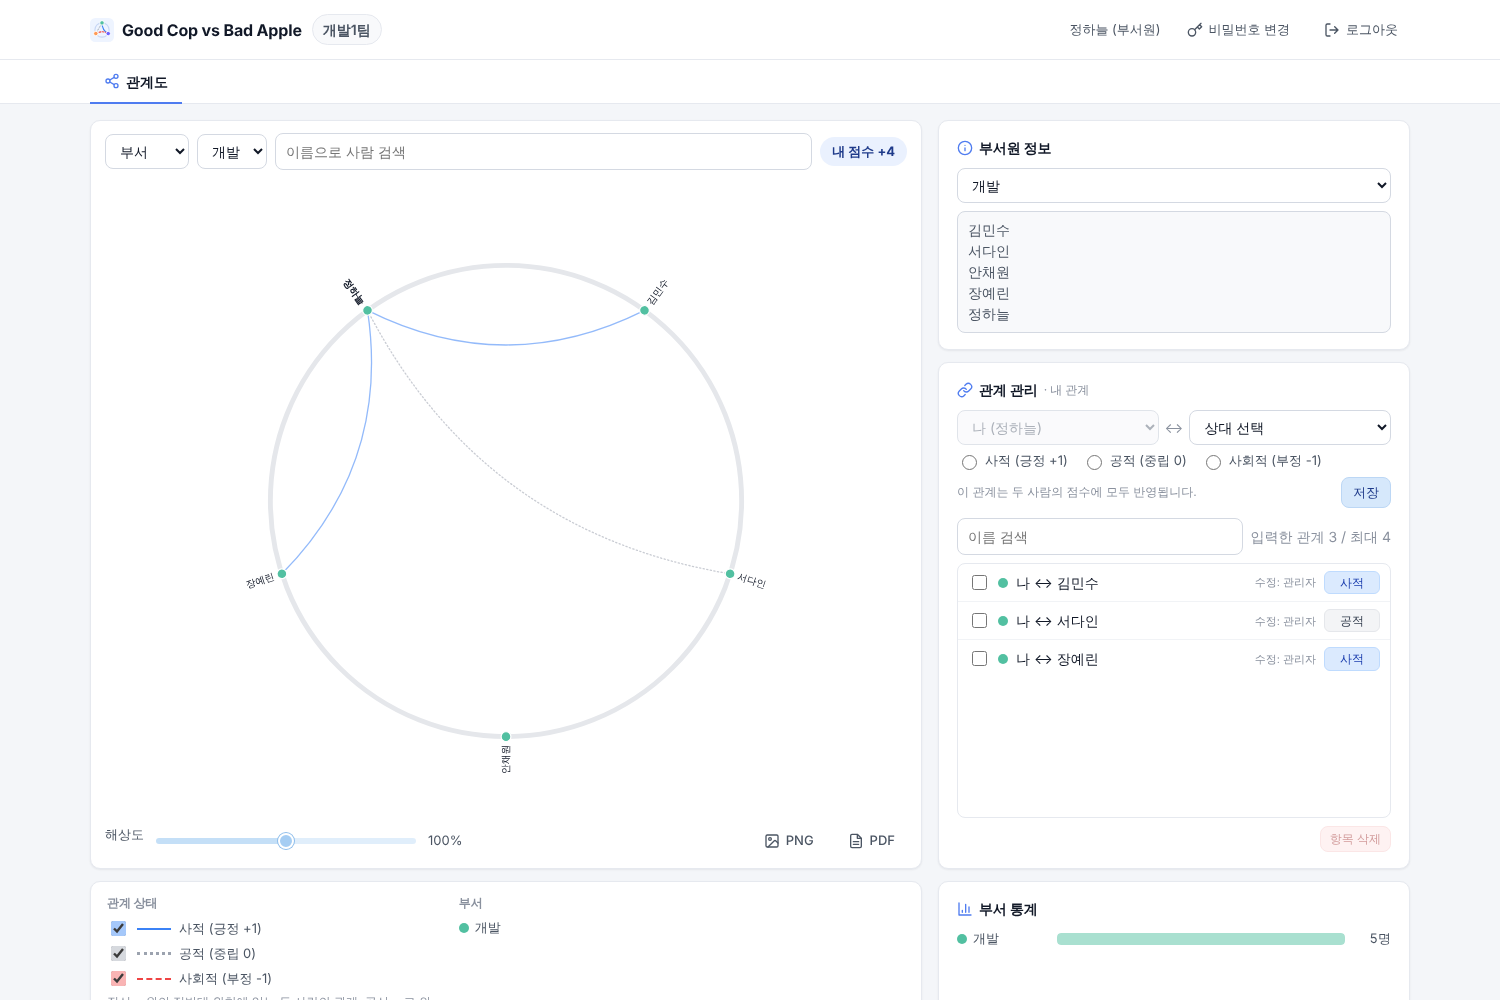
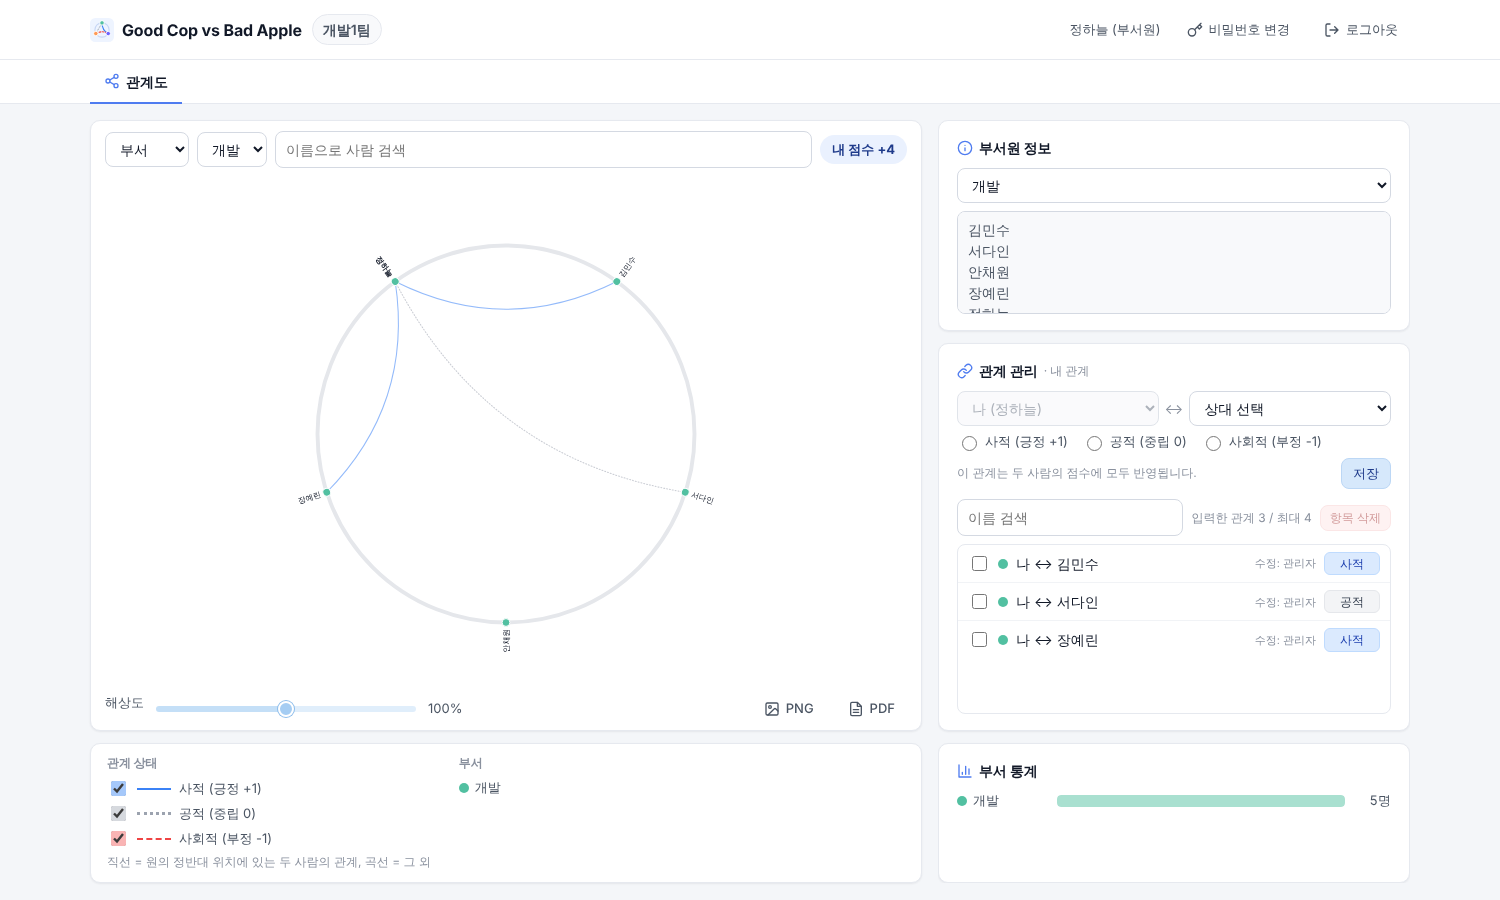
Fit the diagram view in one screen and remove the legend card's empty space
- Diagram area height follows the viewport (100vh minus header, toolbar and
  legend) instead of a fixed 65vh, so the page no longer scrolls
- Relationship status (legend) card sizes to its content; the department
  stats card matches its height via JS so both rows still line up
- Right column: member info and relationship management share the space
  with minimum heights, compact ranking card, delete button moved into the
  list toolbar; the column scrolls instead of overlapping on short screens

Claude-Session: https://claude.ai/code/session_01DsfKjRFUmAajqSco24Yp3e

diff --git a/public/style.css b/public/style.css
@@ -165,12 +165,13 @@ button:focus-visible, .select-list li:focus-visible, .tab:focus-visible, .subtab
 .chart-column { flex: 0 0 auto; width: 832px; max-width: 100%; display: flex; flex-direction: column; gap: 12px; }
 .side-column { flex: 1 1 320px; min-width: 280px; display: flex; flex-direction: column; gap: 12px; }
 
-.chart-card { padding: 12px 14px; }
+.chart-card { padding: 10px 14px 6px; }
 .chart-toolbar { display: flex; gap: 8px; align-items: center; margin-bottom: 6px; }
 .chart-toolbar input { flex: 1; min-width: 120px; }
 .chart-toolbar select { max-width: 200px; }
 .my-score { font-weight: 650; white-space: nowrap; padding: 5px 12px; border-radius: 999px; background: var(--accent-soft); color: var(--primary-text); font-size: 13px; }
-.chart-scroll { width: 100%; max-width: 800px; height: 65vh; overflow: hidden; position: relative; margin: 0 auto; }
+/* 화면 한 장에 들어가도록: 전체 높이 - (헤더·탭·여백·도구줄·슬라이더·관계 상태 카드 ≈ 380px) */
+.chart-scroll { width: 100%; max-width: 800px; height: clamp(380px, calc(100vh - 380px), 800px); overflow: hidden; position: relative; margin: 0 auto; }
 .chart-scroll.scrollable { overflow: auto; }
 .chart-scroll svg { display: block; margin: 0 auto; }
 .chart-empty { position: absolute; inset: 0; display: flex; align-items: center; justify-content: center; color: var(--muted); text-align: center; padding: 20px; }
@@ -184,7 +185,8 @@ button:focus-visible, .select-list li:focus-visible, .tab:focus-visible, .subtab
 #zoom-slider::-moz-range-track { height: 6px; border-radius: 999px; background: #E0EEFB; }
 #zoom-slider::-moz-range-progress { height: 6px; border-radius: 999px; background: #C4DFF7; }
 
-.legend-card { height: calc(23vh - 30px); min-height: 110px; overflow: auto; display: flex; gap: 28px; padding: 12px 16px; }
+.legend-card { display: flex; gap: 28px; padding: 10px 16px; }
+.legend-card .hint { margin: 4px 0 0; }
 .legend-section { min-width: 0; }
 .legend-section h3 { font-size: 12px; color: var(--muted); font-weight: 600; margin-bottom: 6px; }
 .legend-status { display: flex; flex-direction: column; gap: 4px; }
@@ -235,18 +237,24 @@ button:focus-visible, .select-list li:focus-visible, .tab:focus-visible, .subtab
 #panel-my-relations { display: flex; flex-direction: column; max-height: 60vh; }
 
 /* 좌우 배치일 때 오른쪽 열 높이를 왼쪽 열(관계 상태 카드 아래)에 맞춤 — 남는 높이는 유동 카드가 흡수 */
-.side-column.aligned { min-height: 0; }
+.side-column.aligned { min-height: 0; overflow-y: auto; }
 .side-column.aligned > .card { flex: 0 0 auto; }
-.side-column.aligned.admin > .panel-info,
-.side-column.aligned.member > #panel-my-relations { flex: 1 1 0; min-height: 0; height: auto; max-height: none; }
-/* 부서 통계는 왼쪽 관계 상태 카드(.legend-card)와 같은 높이 */
-.side-column.aligned > .panel-stats { height: calc(23vh - 30px); min-height: 110px; }
+.side-column.aligned.admin > .panel-info { flex: 1 1 0; min-height: 0; height: auto; max-height: none; }
+/* 부서원 화면: 부서원 정보와 관계 관리가 남는 높이를 1:2로 나눔 (관계 관리는 최소 높이 보장) */
+.side-column.aligned.member > .panel-info { flex: 1 1 0; min-height: 140px; height: auto; overflow: hidden; }
+.side-column.aligned.member > #panel-my-relations { flex: 2 1 0; min-height: 290px; height: auto; max-height: none; }
+.side-column.aligned .panel-info textarea { min-height: 36px; }
+/* 부서 통계는 왼쪽 관계 상태 카드(.legend-card)와 같은 높이 (JS에서 실제 높이를 맞춤) */
+.side-column.aligned > .panel-stats { min-height: 0; }
 .rel-form label { margin-bottom: 6px; }
 .status-radios { border: 0; padding: 0; margin: 6px 0; display: flex; gap: 14px; flex-wrap: nowrap; }
 .status-radios label { flex-direction: row; align-items: center; gap: 5px; margin: 0; white-space: nowrap; font-size: 13px; cursor: pointer; font-weight: 400; }
 .list-toolbar { display: flex; align-items: center; gap: 8px; margin: 10px 0 8px; flex-wrap: wrap; }
 .list-toolbar h3 { margin: 0; flex: 1; }
-.list-toolbar input[type="search"] { flex: 1; min-width: 140px; }
+.list-toolbar input[type="search"] { flex: 1; min-width: 120px; }
+#panel-my-relations .list-toolbar { flex-wrap: nowrap; }
+#panel-my-relations .list-toolbar #my-rel-count { font-size: 12px; white-space: nowrap; }
+#panel-my-relations .select-list { margin-bottom: 0; }
 
 .select-list { list-style: none; margin: 0 0 8px; padding: 0; overflow: auto; flex: 1; min-height: 60px; border: 1px solid var(--border); border-radius: var(--radius-sm); }
 .select-list li { display: flex; align-items: center; gap: 8px; padding: 7px 10px; border-bottom: 1px solid #f1f3f6; cursor: pointer; }
@@ -274,8 +282,10 @@ button:focus-visible, .select-list li:focus-visible, .tab:focus-visible, .subtab
 .scope-note { font-size: 12px; font-weight: 400; color: var(--muted); }
 
 .ranking { display: grid; grid-template-columns: 1fr 1fr; gap: 14px; }
-.ranking h4 { margin: 0 0 8px; font-size: 12px; color: var(--muted); font-weight: 600; }
-.rank-list { list-style: none; padding: 0; margin: 0; display: flex; flex-direction: column; gap: 7px; }
+.ranking h4 { margin: 0 0 4px; font-size: 12px; color: var(--muted); font-weight: 600; }
+.rank-list { list-style: none; padding: 0; margin: 0; display: flex; flex-direction: column; gap: 4px; }
+#panel-ranking { padding-top: 12px; padding-bottom: 12px; }
+#panel-ranking h3 { margin-bottom: 6px; }
 .rank-list li { display: flex; align-items: center; gap: 8px; font-size: 13px; }
 .rank-badge { width: 22px; height: 22px; border-radius: 50%; font-size: 12px; font-weight: 700; display: inline-flex; align-items: center; justify-content: center; flex: 0 0 auto; }
 .rank-list.top .rank-badge { background: #BFDBFE; color: #1E40AF; }
@@ -364,6 +374,11 @@ dialog::backdrop { background: rgba(17, 24, 39, .35); backdrop-filter: blur(2px)
 
 .toast { position: fixed; left: 50%; bottom: 24px; transform: translateX(-50%); background: #111827; color: #fff; padding: 10px 16px; border-radius: var(--radius-sm); z-index: 100; max-width: 90vw; box-shadow: var(--shadow-lg); font-size: 13px; }
 .toast.error { background: #b91c1c; }
+
+/* 낮은 화면(노트북 등): 오른쪽 카드가 넘치지 않도록 부서원 정보 카드를 줄임 */
+@media (max-height: 820px) {
+  .panel-info { height: 16vh; min-height: 110px; }
+}
 
 /* 반응형 */
 @media (max-width: 1400px) {

diff --git a/public/index.html b/public/index.html
@@ -162,11 +162,9 @@
               <div class="list-toolbar">
                 <input type="search" id="my-rel-filter" placeholder="이름 검색" aria-label="관계 검색">
                 <span id="my-rel-count" class="muted"></span>
-              </div>
-              <ul id="my-rel-list" class="select-list"></ul>
-              <div class="row-end">
                 <button type="button" id="my-rel-delete" class="btn btn-danger btn-mini" disabled>항목 삭제</button>
               </div>
+              <ul id="my-rel-list" class="select-list"></ul>
             </div>
 
             <div class="card panel panel-stats">

diff --git a/public/app.js b/public/app.js
@@ -609,6 +609,9 @@ function alignSideColumn() {
   const sideBySide = left.offsetHeight > 0 && Math.abs(left.offsetTop - side.offsetTop) < 2;
   side.classList.toggle('aligned', sideBySide);
   side.style.height = sideBySide ? `${left.offsetHeight}px` : '';
+  // 부서 통계 카드 = 관계 상태 카드 높이 (위·아래 줄 맞춤)
+  const legend = document.querySelector('.legend-card');
+  document.querySelector('.panel-stats').style.height = sideBySide ? `${legend.offsetHeight}px` : '';
 }
 
 function renderAll() {
